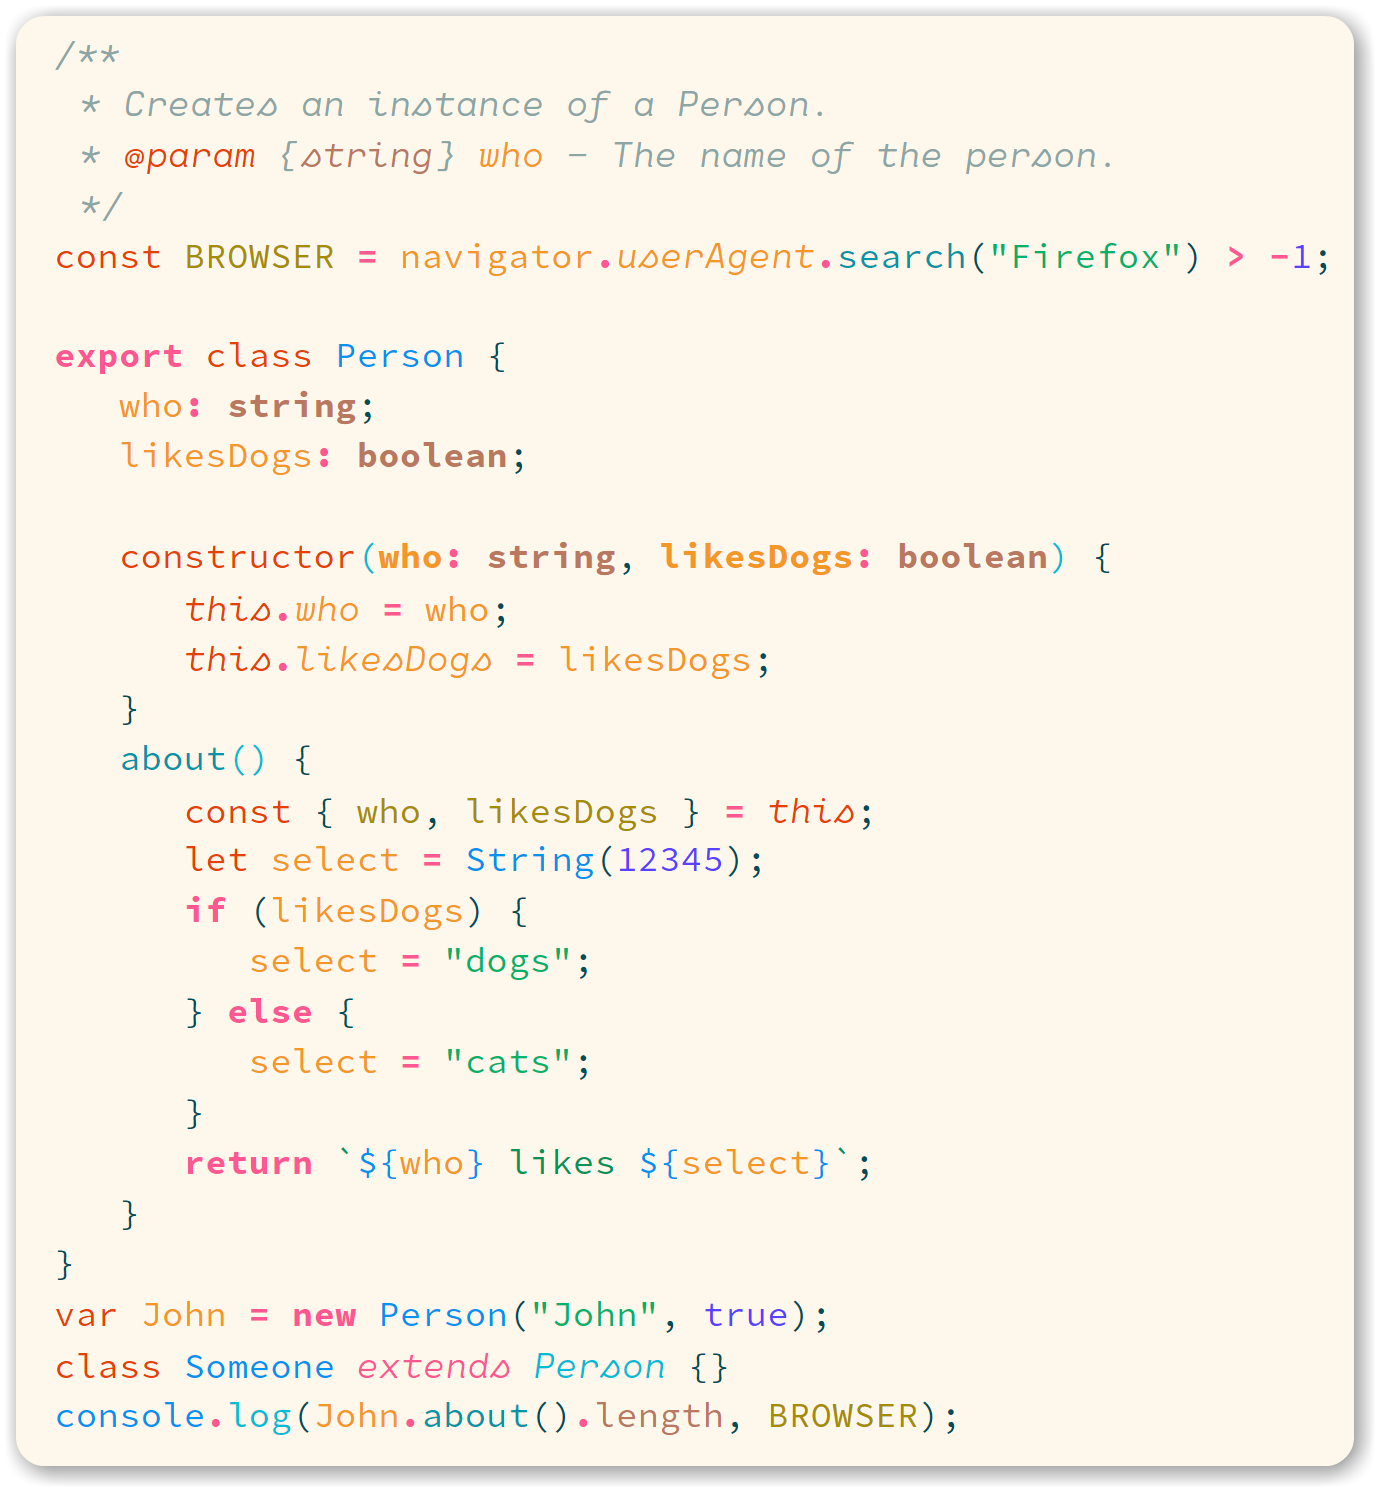
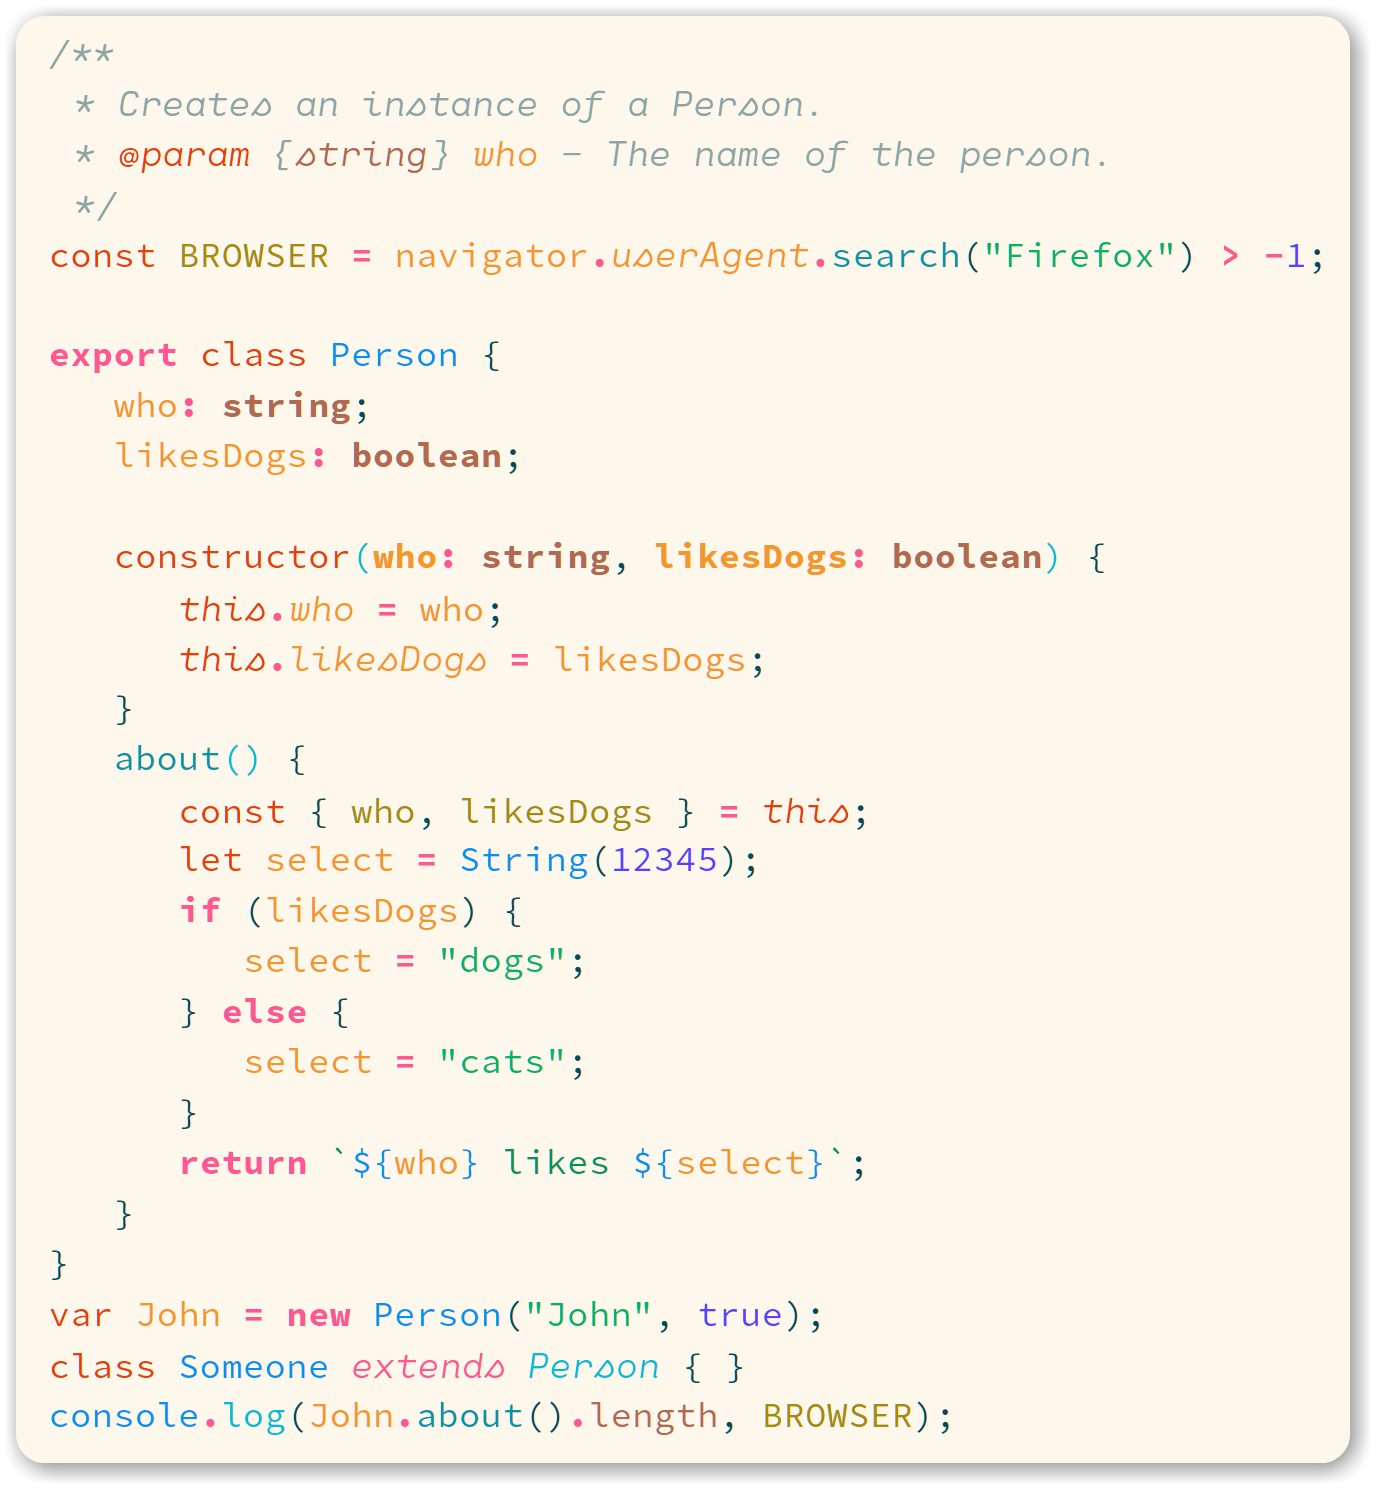
9.1.0

diff --git a/README.md b/README.md
@@ -31,7 +31,7 @@ Noctis comes in nine versions. Seven are dark and two are light.
 
 ## Noctis Lux
 
-![Noctis Lux Screenshot](https://github.com/liviuschera/noctis/raw/master/images/noctisLux.png)
+![Noctis Lux Screenshot](images/noctisLux.png)
 
 ## Noctis Hibernus
 
@@ -199,7 +199,7 @@ The color names were matched using the excellent online tools [Name that Color](
 | Electric Violet  | ![#5842ff](https://placehold.it/15/5842ff/000000?text=+) `#5842ff` | Numbers & Booleans                                        |
 | PBrink Pink      | ![#ff5792](https://placehold.it/15/ff5792/000000?text=+) `#ff5792` | Keywords & Operators                                      |
 | Trinidad         | ![#e64100](https://placehold.it/15/e64100/000000?text=+) `#e64100` | Function & Variable Declaration, Tags & `this`            |
-| Santa Fe         | ![#ba785e](https://placehold.it/15/ba785e/000000?text=+) `#ba785e` | Object properties, ID selectors in CSS & Type annotations |
+| Santa Fe         | ![#b3694d](https://placehold.it/15/b3694d/000000?text=+) `#b3694d` | Object properties, ID selectors in CSS & Type annotations |
 | Dark Goldenrod   | ![#a88c00](https://placehold.it/15/a88c00/000000?text=+) `#a88c00` | Attributes, Constants                                     |
 | Yellow Sea       | ![#f49725](https://placehold.it/15/f49725/000000?text=+) `#f49725` | Variables & Parameters                                    |
 

diff --git a/CHANGELOG.md b/CHANGELOG.md
@@ -1,5 +1,10 @@
 # Change Log
 
+## **9.1.0**
+
+- light themes &rarr; improved contrast of annotation color: #ba785e &rarr; #b3694d
+- updated README
+
 ## **9.0.0**
 
 -  🆕 light theme variant &rarr; **_Noctis Lilac_**
